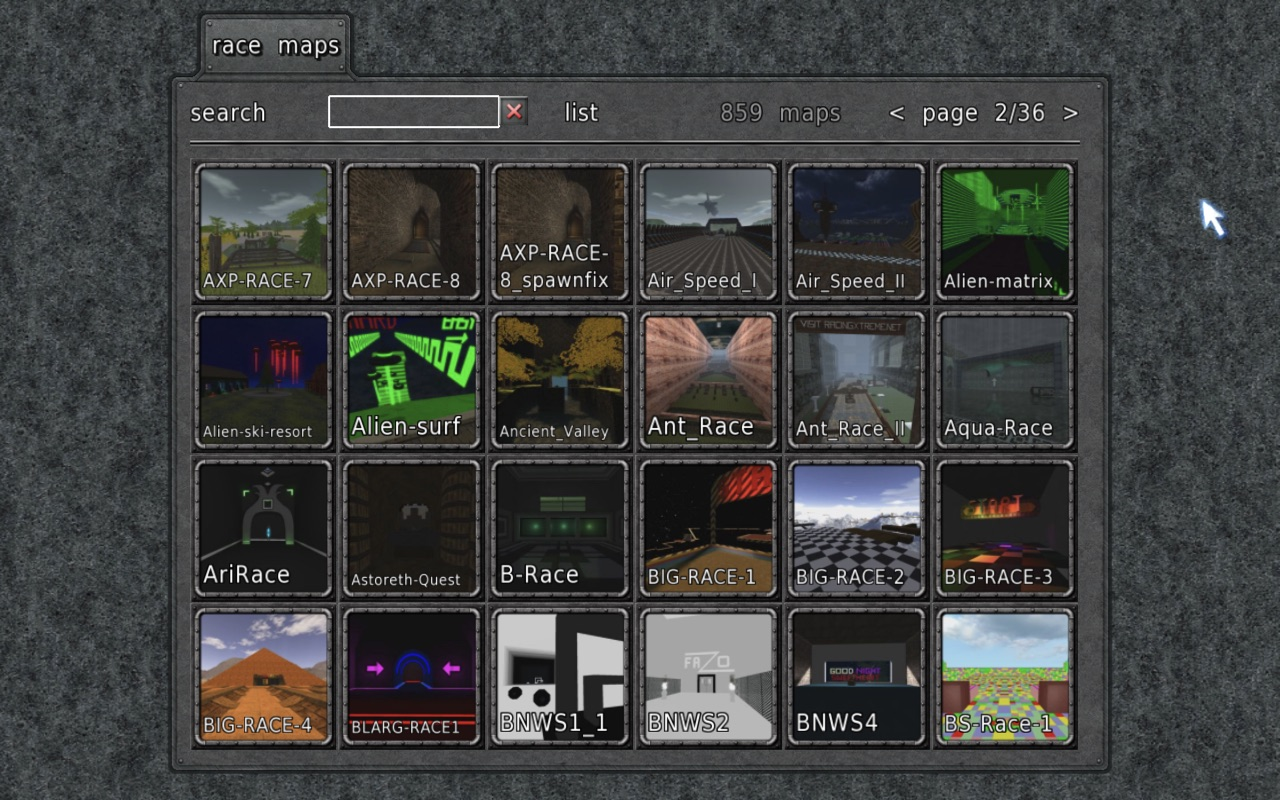
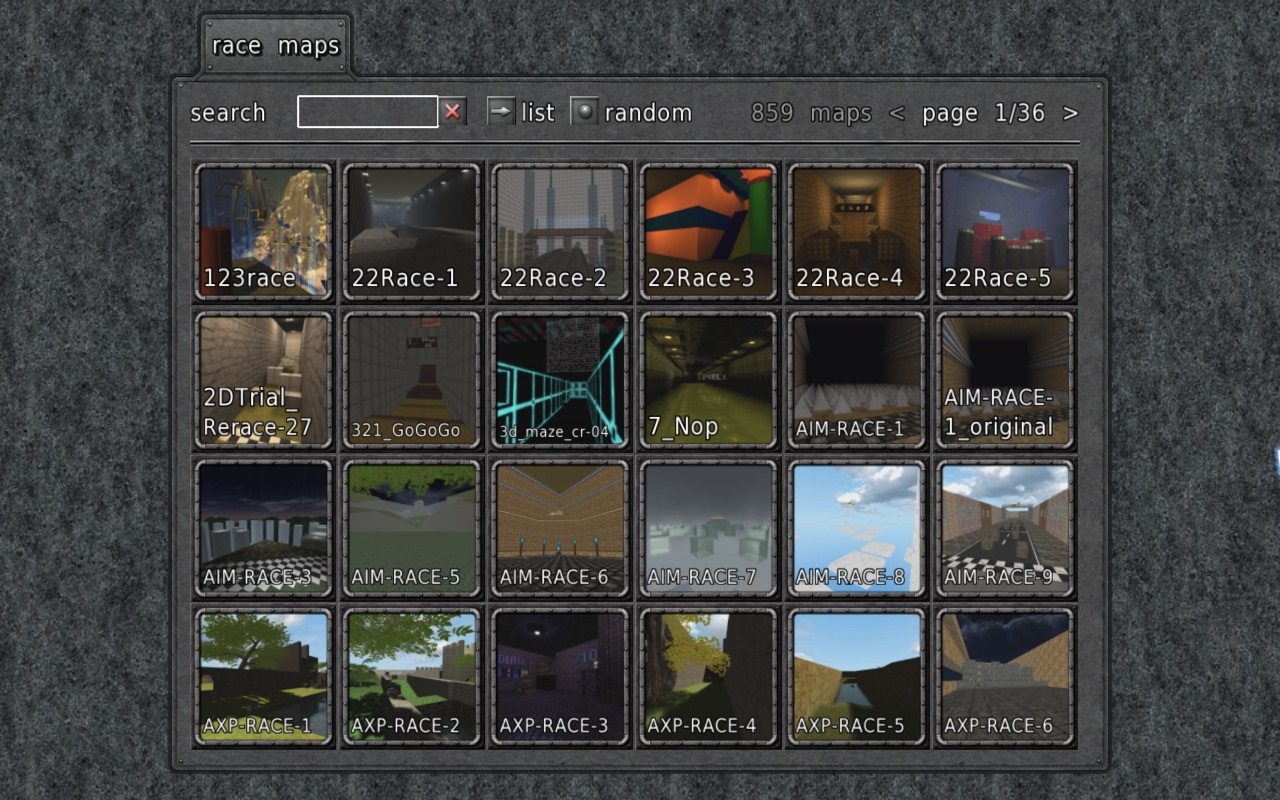
README: replay screenshot with the input display, race map browser with the new header

diff --git a/README.md b/README.md
@@ -29,8 +29,8 @@ identically on any other computer.
 | Racing the PB ghost, with the live difference under the timer | A split zone, and the split against your PB and best segment |
 | ![A map's leaderboard with /board](screenshots/board.jpg) | ![The board above a flag](screenshots/flagboard.jpg) |
 | `/board`: the world record, top runs and your place | Above each flag: your best from it, the map PB and the top runs |
-| ![The race map browser](screenshots/racemaps.jpg) | ![Playing a replay](screenshots/replay.jpg) |
-| The race map browser | Playing back a replay |
+| ![The race map browser](screenshots/racemaps.jpg) | ![Playing a replay with the input display](screenshots/replay.jpg) |
+| The race map browser | Playing back a replay, with its keys and mouse movement |
 | ![A hub lobby's scoreboard](screenshots/lobby.jpg) | ![The replay browser](screenshots/replays.jpg) |
 | A hub lobby: live run times, session bests and PBs | The replay browser: filters, PBs and witness verdicts |
 
